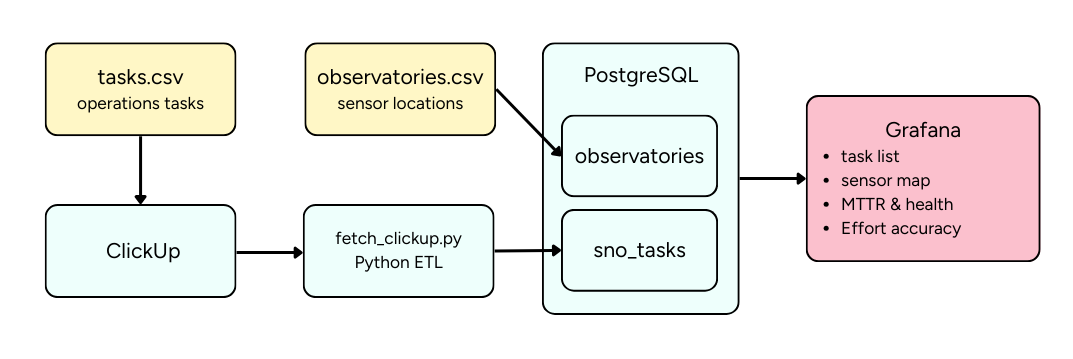
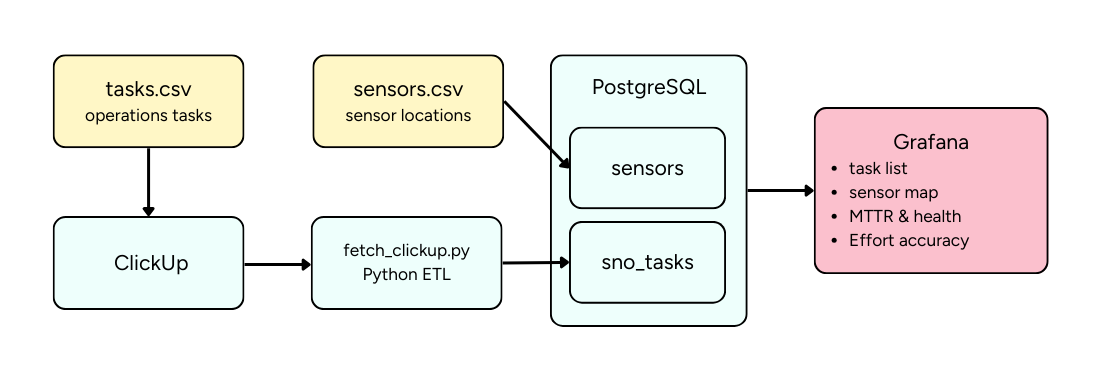
refactor: table name change from observatories to sensors

Changed region(s): [[0.2153, 0.0919, 0.9842, 0.8886], [0.0308, 0.0919, 0.246, 0.8273], [0.0923, 0.6741, 0.1845, 0.7354]]

diff --git a/README.md b/README.md
@@ -12,24 +12,23 @@ The solution is built around a **PostgreSQL database**, a **ClickUp → PostgreS
 
 **Database layer**
 
-- observatories stores the static description of each site: a unique observatory_id, sensor identifier, human‑readable name, country, and lat / lon coordinates.
+- sensors stores the static description of each site: observatory_id, sensor identifier, human‑readable name, country, and lat / lon coordinates.
 - sno_tasks stores operational incidents and maintenance work coming from ClickUp: task identifiers and names, status, priority, assignee_name, lifecycle timestamps (created_date, due_date, closed_date, updated_at), free‑form tags, and operational details such as incident_type, estimated_hours, and actual_hours.
-- The two tables are linked by observatory_id and sensor, which lets us join incidents with their physical location and show them on a map.
 
 **ETL / integration layer**
 
 - A Python script (fetch_clickup.py) connects to the ClickUp API using environment variables (list ID and API token).
-- It fetches the latest tasks for the SNO Operations list, transforms them into the schema expected by sno_tasks (including status, priority, timestamps, and effort fields), and upserts them into PostgreSQL.
+- It fetches the tasks for the SNO Operations list, transforms them into the schema expected by sno_tasks (including status, priority, timestamps, and effort fields), and upserts them into PostgreSQL.
 ![ClickUp incident list](assets/clickup_incident_list.png)
 - This script can be run on a schedule (e.g. cron, CI, or an external scheduler) so that the database always reflects the current incident state in ClickUp.
 
 **Analytics & visualization layer**
 
 - Grafana is configured to use the PostgreSQL database as a data source.
-- Panels query observatories and sno_tasks to power:
-- a live list of open incidents with priority and assignee,
-- a map of observatories with sensors color‑coded by the highest‑priority open incident,
-- time‑series and aggregate metrics such as MTTR, percentage of unhealthy sensors, and effort‑accuracy (estimated vs. actual hours).
+- Panels query sensors and sno_tasks to power:
+  - a live list of open incidents with priority and assignee,
+  - a map of sensors with sensors color‑coded by the highest‑priority open incident,
+  - time‑series and aggregate metrics such as MTTR, percentage of unhealthy sensors, and effort‑accuracy (estimated vs. actual hours).
 
 ### **Synthetic Data Generation**
 
@@ -37,18 +36,17 @@ To keep the project realistic, all records are **synthetic but business‑driven
 
 - I started from what I know about the company’s business model and roughly where their sensors are deployed .
 - Using that context, I used AI to generate observatory locations and incident‑like tasks that feel plausible for this kind of sensor network, while freely inventing details such as incident types, priorities, and repair times.
-- The generated observatories were saved to CSV and imported into PostgreSQL, while the generated incident tasks were imported into ClickUp and then synced into the sno_tasks table via the fetch_clickup.py integration script.
+- The generated sensors were saved to CSV and imported into PostgreSQL, while the generated incident tasks were imported into ClickUp and then synced into the sno_tasks table via the fetch_clickup.py integration script.
 
-This approach makes the dataset rich and believable enough for serious analysis and dashboard design, while staying safe to share in a recruitment/demo context.
 
 ## Grafana dashboard
 
-The dashboard is built on top of the `observatories` and `sno_tasks` tables and is designed for **quick situational awareness**:
+The dashboard is built on top of the `sensors` and `sno_tasks` tables and is designed for **quick situational awareness**:
 
 - **Unhealthy Sensors** – percentage of sensors with at least one non‑maintenance task that is not `done`.
 - **MTTR** – average `actual_hours` to resolve non‑maintenance tasks that are `done`.
 - **Effort Accuracy Ratio** – how close estimates are to reality: average actual hours divided by average estimated hours.
-- **Sensor map** – geomap of observatories, colored by the highest‑priority open task per sensor.
+- **Sensor map** – geomap of sensors, colored by the highest‑priority open task per observatory (location).
 - **Active tasks table** – list of open tasks for the selected sensor(s), sorted by priority.
 
 ![Grafana dashboard overview](assets/dashboard_overview.png)
@@ -60,7 +58,7 @@ At the top there is a dropdown variable that controls the whole dashboard:
 - **Name**: `selected_sensors`
 - **Query**:
   ```sql
-  SELECT DISTINCT sensor FROM observatories;
+  SELECT DISTINCT sensor FROM sensors;
   ```
 - **Behavior**: when a sensor (or sensors) is selected, the geomap highlights that sensor and the tasks table is filtered to only those tasks.
 
@@ -85,29 +83,29 @@ WITH tasks_enriched AS (
   WHERE status != 'done' AND tags NOT LIKE '%maintenance%'
 )
 SELECT 
-  o.sensor,
-  o.name,
-  o.lat, 
-  o.lon, 
+  s.sensor,
+  s.name,
+  s.lat, 
+  s.lon, 
   CASE 
     WHEN min(t.priority_number) = 1 THEN 'Urgent'
     WHEN min(t.priority_number) = 2 THEN 'High'
     WHEN min(t.priority_number) = 3 THEN 'Normal'
     ELSE 'Healthy'
-  END AS priority_status,
+  END as priority_status,
   CASE 
-    WHEN o.sensor IN (${selected_sensors:sqlstring}) THEN 10
+    WHEN s.sensor IN (${selected_sensors:sqlstring}) THEN 10
     ELSE 5
   END AS marker_size,
   CASE 
-    WHEN o.sensor IN (${selected_sensors:sqlstring}) THEN o.sensor
+    WHEN s.sensor IN (${selected_sensors:sqlstring}) THEN s.sensor
     ELSE ''
   END AS label
-FROM observatories o
+FROM sensors s
 LEFT JOIN tasks_enriched t 
-  ON o.sensor = t.sensor 
- AND o.observatory_id = t.observatory_id
-GROUP BY o.sensor, o.name, o.lat, o.lon;
+  ON s.sensor = t.sensor 
+  AND s.observatory_id = t.observatory_id
+GROUP BY s.sensor, s.name, s.lat, s.lon
 ```
 
 **Active tasks table**
@@ -142,12 +140,12 @@ Percentage of sensors that currently have at least one non‑maintenance task th
 
 ```sql
 SELECT 
-  COUNT(DISTINCT CASE WHEN t.tags NOT LIKE '%maintenance%' THEN o.sensor END) * 100.00 
-  / COUNT(DISTINCT o.sensor) AS unhealthy_pct
-FROM observatories o
+  COUNT(DISTINCT CASE WHEN t.tags NOT LIKE '%maintenance%' THEN s.sensor END) * 100.00 
+  / COUNT(DISTINCT s.sensor) AS unhealthy_pct
+FROM sensors s
 LEFT JOIN sno_tasks t 
-  ON o.sensor = t.sensor 
- AND t.status != 'done';
+  ON s.sensor = t.sensor 
+  AND t.status != 'done'
 ```
 
 **MTTR (Mean Time To Repair)**
@@ -189,7 +187,7 @@ I also spot‑checked the dashboard against ClickUp to confirm that filtering, p
 1. (Optional but recommended) Create and activate a virtual environment:
    ```bash
    python3 -m venv .venv
-   source .venv/bin/activate  # Mac/Linux
+   source .venv/bin/activate 
    ```
 
 2. Install dependencies:
